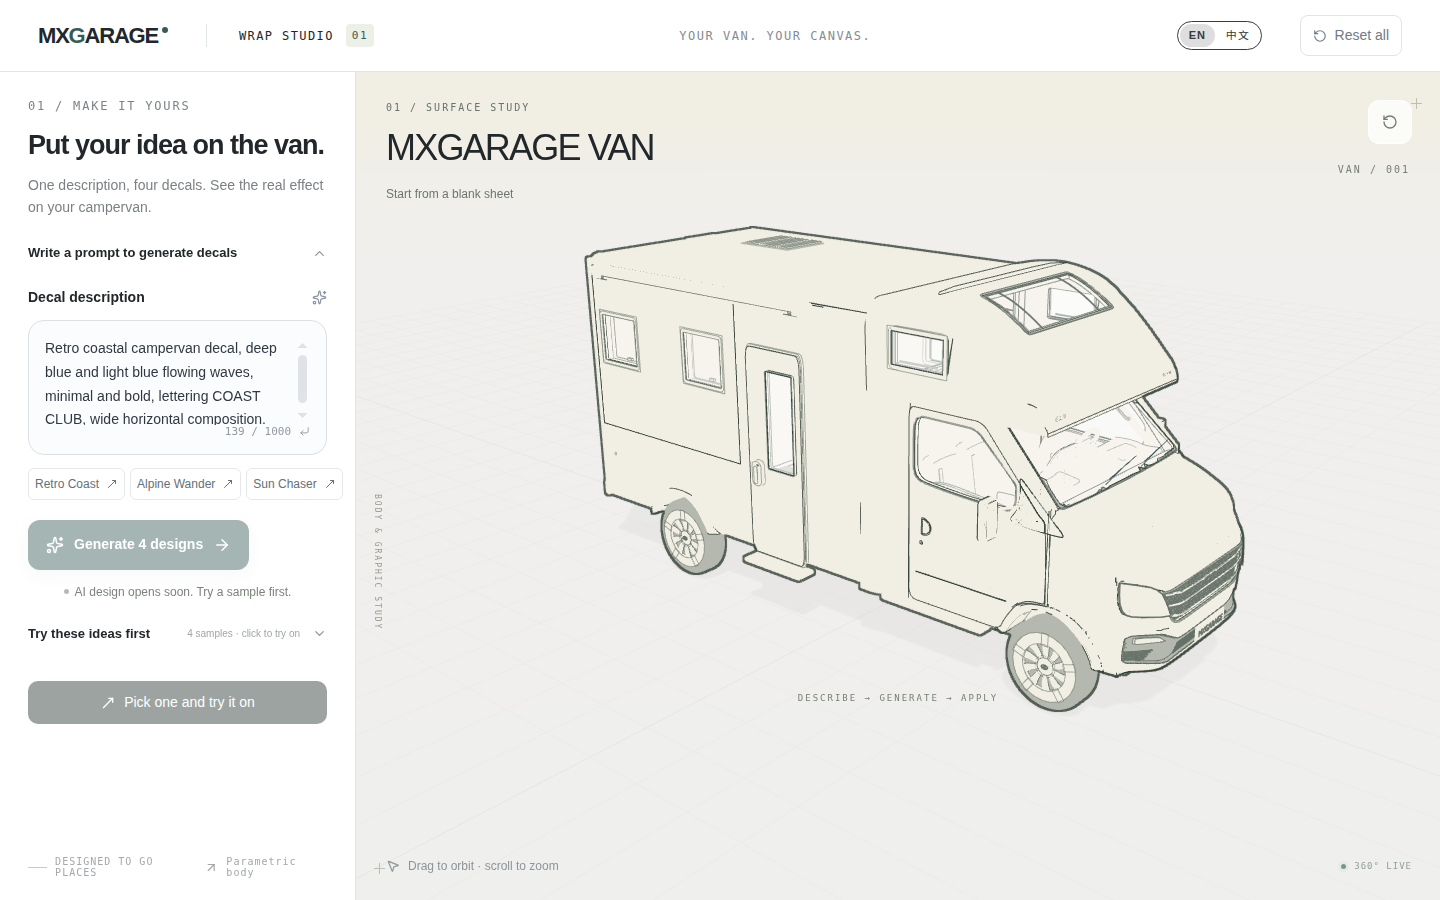
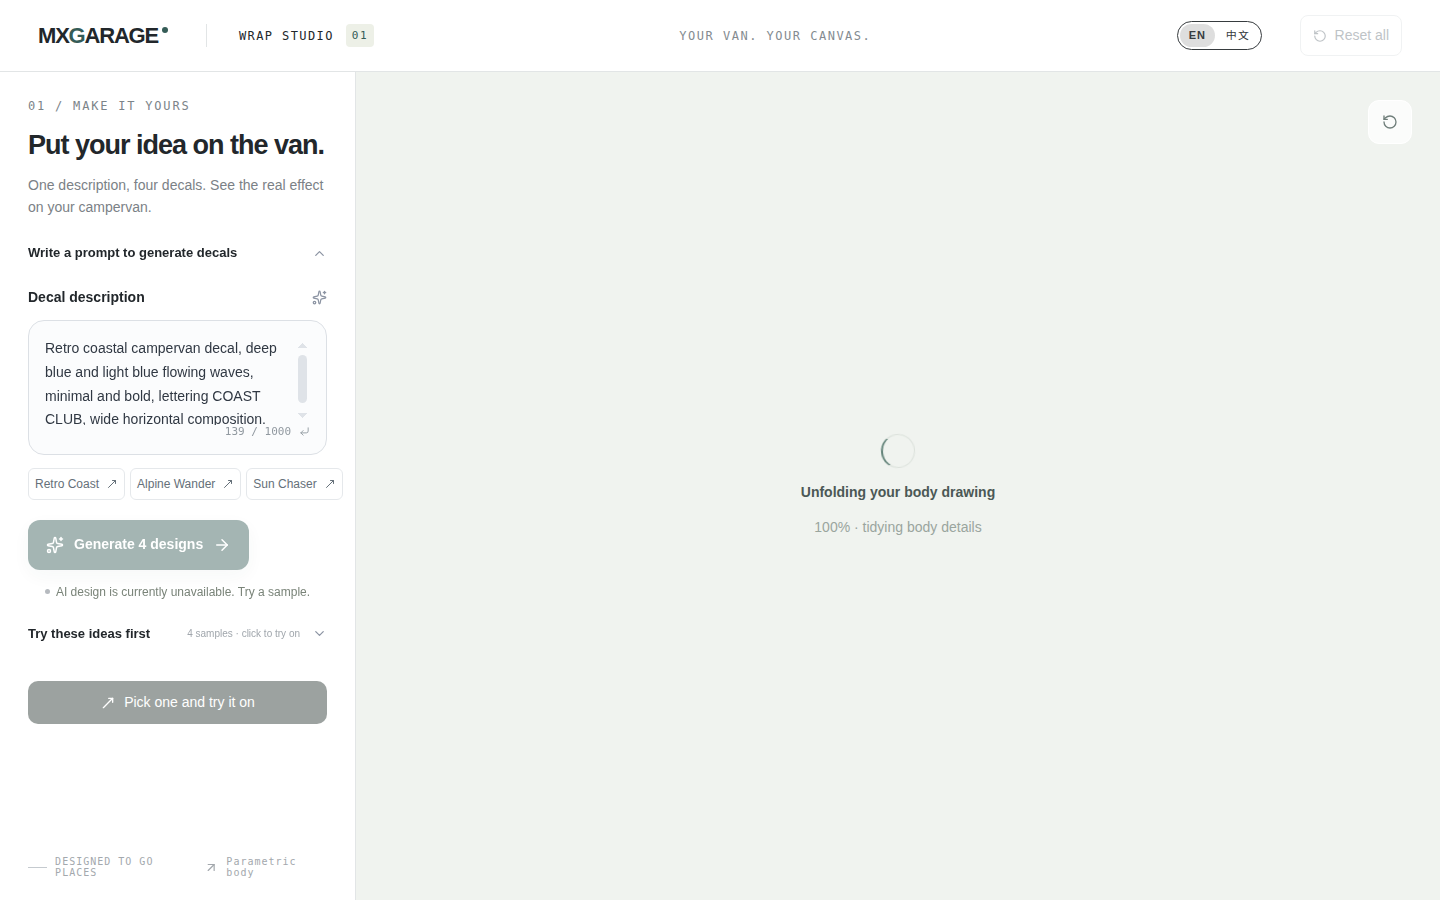
docs: refresh #17 screenshots for the unavailable copy

diff --git a/docs/reviews/pr-17/EVIDENCE.md b/docs/reviews/pr-17/EVIDENCE.md
@@ -6,7 +6,7 @@ Claim：`vss-17-lulu-20261025-01`。分支：`feature/17-generation-availability
 
 `/api/status` 在本地浏览器里被替换成内存响应，不代表线上密钥是否已配置（该项仍是 `[NEEDS CLARIFICATION]`）：
 
-1. 第一次响应 `{configured:false}`，拍 `disabled-en.png`、`disabled-zh.png`。按钮为禁用，提示词仍在。
+1. 第一次响应 `{configured:false}`，拍 `disabled-en.png`、`disabled-zh.png`。按钮为禁用，提示词仍在。英文文案是 “AI design is currently unavailable. Try a sample.”，中文文案是 “AI 设计暂不可用，先试试样例”。
 2. 窗口重新获得焦点后，下一次响应 `{configured:true}`，拍 `recovered-zh.png`、`recovered-en.png`。按钮变为可点，提示词仍是同一段。
 
 无头 Chrome 里的车身画面不是这次改动的对象。对比的是左侧生成区和状态文案。
